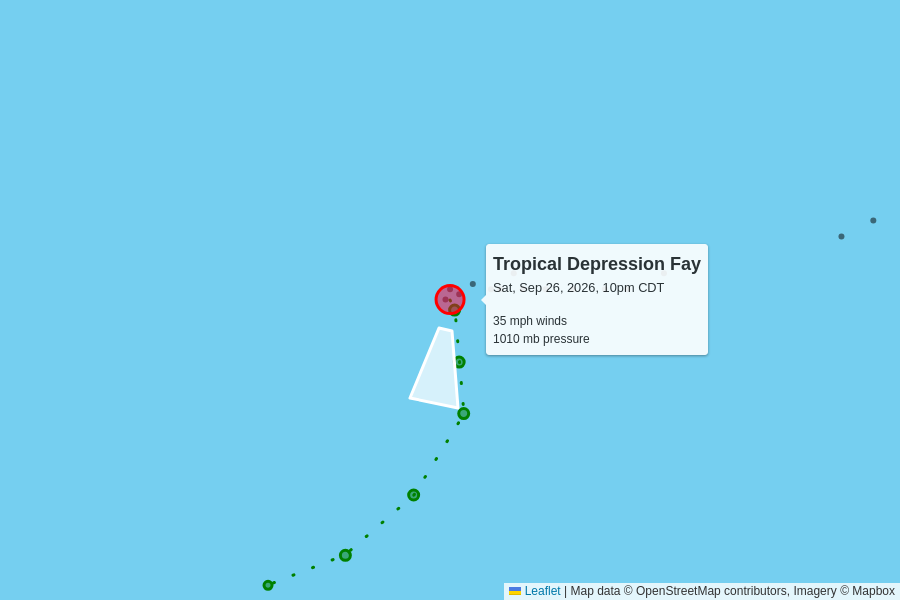
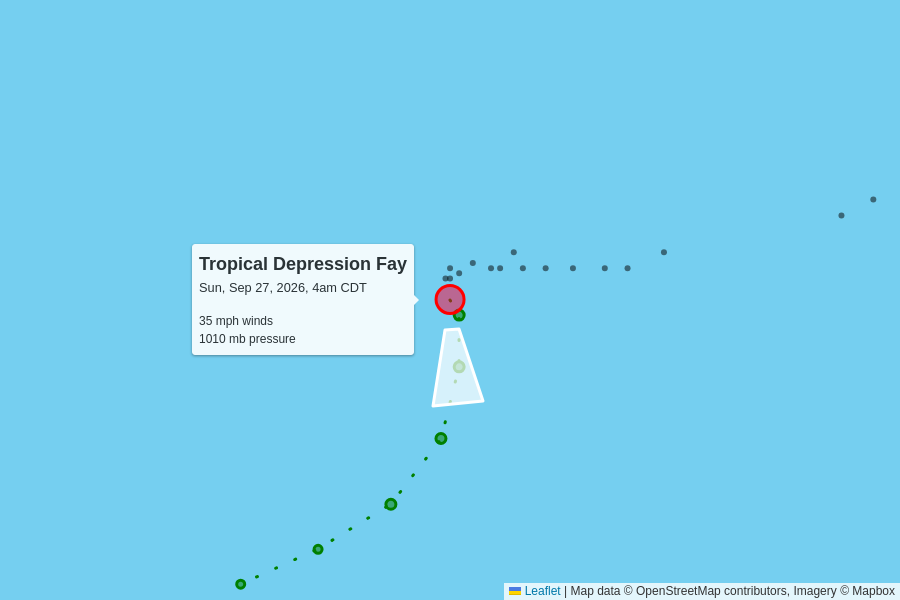
automatic update

diff --git a/docs/2026.html b/docs/2026.html
@@ -45,13 +45,13 @@
       <grid-container>
           <grid-row>
             <script type="text/json" id="storm_data_AL062026">
-              {"pressure":[{"timestamp":"2026-09-19T15:00:00.000Z","value":1009},{"timestamp":"2026-09-19T21:00:00.000Z","value":1007},{"timestamp":"2026-09-20T03:00:00.000Z","value":1007},{"timestamp":"2026-09-20T09:00:00.000Z","value":1004},{"timestamp":"2026-09-20T15:00:00.000Z","value":1004},{"timestamp":"2026-09-20T21:00:00.000Z","value":999},{"timestamp":"2026-09-21T03:00:00.000Z","value":995},{"timestamp":"2026-09-21T09:00:00.000Z","value":997},{"timestamp":"2026-09-21T15:00:00.000Z","value":1000},{"timestamp":"2026-09-21T21:00:00.000Z","value":1004},{"timestamp":"2026-09-22T03:00:00.000Z","value":1008},{"timestamp":"2026-09-22T09:00:00.000Z","value":1009},{"timestamp":"2026-09-22T15:00:00.000Z","value":1010},{"timestamp":"2026-09-22T21:00:00.000Z","value":1011},{"timestamp":"2026-09-23T21:00:00.000Z","value":1011},{"timestamp":"2026-09-24T03:00:00.000Z","value":1010},{"timestamp":"2026-09-24T09:00:00.000Z","value":1010},{"timestamp":"2026-09-24T15:00:00.000Z","value":1005},{"timestamp":"2026-09-24T21:00:00.000Z","value":1005},{"timestamp":"2026-09-25T03:00:00.000Z","value":1005},{"timestamp":"2026-09-25T09:00:00.000Z","value":1004},{"timestamp":"2026-09-25T15:00:00.000Z","value":1002},{"timestamp":"2026-09-25T21:00:00.000Z","value":1004},{"timestamp":"2026-09-26T03:00:00.000Z","value":1006},{"timestamp":"2026-09-26T09:00:00.000Z","value":1009},{"timestamp":"2026-09-26T15:00:00.000Z","value":1009},{"timestamp":"2026-09-26T21:00:00.000Z","value":1009},{"timestamp":"2026-09-27T03:00:00.000Z","value":1010}],"wind":[{"timestamp":"2026-09-19T15:00:00.000Z","value":35},{"timestamp":"2026-09-19T21:00:00.000Z","value":35},{"timestamp":"2026-09-20T03:00:00.000Z","value":35},{"timestamp":"2026-09-20T09:00:00.000Z","value":45},{"timestamp":"2026-09-20T15:00:00.000Z","value":60},{"timestamp":"2026-09-20T21:00:00.000Z","value":65},{"timestamp":"2026-09-21T03:00:00.000Z","value":70},{"timestamp":"2026-09-21T09:00:00.000Z","value":65},{"timestamp":"2026-09-21T15:00:00.000Z","value":50},{"timestamp":"2026-09-21T21:00:00.000Z","value":45},{"timestamp":"2026-09-22T03:00:00.000Z","value":40},{"timestamp":"2026-09-22T09:00:00.000Z","value":40},{"timestamp":"2026-09-22T15:00:00.000Z","value":35},{"timestamp":"2026-09-22T21:00:00.000Z","value":35},{"timestamp":"2026-09-23T21:00:00.000Z","value":35},{"timestamp":"2026-09-24T03:00:00.000Z","value":40},{"timestamp":"2026-09-24T09:00:00.000Z","value":40},{"timestamp":"2026-09-24T15:00:00.000Z","value":50},{"timestamp":"2026-09-24T21:00:00.000Z","value":50},{"timestamp":"2026-09-25T03:00:00.000Z","value":50},{"timestamp":"2026-09-25T09:00:00.000Z","value":50},{"timestamp":"2026-09-25T15:00:00.000Z","value":60},{"timestamp":"2026-09-25T21:00:00.000Z","value":50},{"timestamp":"2026-09-26T03:00:00.000Z","value":40},{"timestamp":"2026-09-26T09:00:00.000Z","value":35},{"timestamp":"2026-09-26T15:00:00.000Z","value":35},{"timestamp":"2026-09-26T21:00:00.000Z","value":35},{"timestamp":"2026-09-27T03:00:00.000Z","value":35}]}
+              {"pressure":[{"timestamp":"2026-09-19T15:00:00.000Z","value":1009},{"timestamp":"2026-09-19T21:00:00.000Z","value":1007},{"timestamp":"2026-09-20T03:00:00.000Z","value":1007},{"timestamp":"2026-09-20T09:00:00.000Z","value":1004},{"timestamp":"2026-09-20T15:00:00.000Z","value":1004},{"timestamp":"2026-09-20T21:00:00.000Z","value":999},{"timestamp":"2026-09-21T03:00:00.000Z","value":995},{"timestamp":"2026-09-21T09:00:00.000Z","value":997},{"timestamp":"2026-09-21T15:00:00.000Z","value":1000},{"timestamp":"2026-09-21T21:00:00.000Z","value":1004},{"timestamp":"2026-09-22T03:00:00.000Z","value":1008},{"timestamp":"2026-09-22T09:00:00.000Z","value":1009},{"timestamp":"2026-09-22T15:00:00.000Z","value":1010},{"timestamp":"2026-09-22T21:00:00.000Z","value":1011},{"timestamp":"2026-09-23T21:00:00.000Z","value":1011},{"timestamp":"2026-09-24T03:00:00.000Z","value":1010},{"timestamp":"2026-09-24T09:00:00.000Z","value":1010},{"timestamp":"2026-09-24T15:00:00.000Z","value":1005},{"timestamp":"2026-09-24T21:00:00.000Z","value":1005},{"timestamp":"2026-09-25T03:00:00.000Z","value":1005},{"timestamp":"2026-09-25T09:00:00.000Z","value":1004},{"timestamp":"2026-09-25T15:00:00.000Z","value":1002},{"timestamp":"2026-09-25T21:00:00.000Z","value":1004},{"timestamp":"2026-09-26T03:00:00.000Z","value":1006},{"timestamp":"2026-09-26T09:00:00.000Z","value":1009},{"timestamp":"2026-09-26T15:00:00.000Z","value":1009},{"timestamp":"2026-09-26T21:00:00.000Z","value":1009},{"timestamp":"2026-09-27T03:00:00.000Z","value":1010},{"timestamp":"2026-09-27T09:00:00.000Z","value":1010}],"wind":[{"timestamp":"2026-09-19T15:00:00.000Z","value":35},{"timestamp":"2026-09-19T21:00:00.000Z","value":35},{"timestamp":"2026-09-20T03:00:00.000Z","value":35},{"timestamp":"2026-09-20T09:00:00.000Z","value":45},{"timestamp":"2026-09-20T15:00:00.000Z","value":60},{"timestamp":"2026-09-20T21:00:00.000Z","value":65},{"timestamp":"2026-09-21T03:00:00.000Z","value":70},{"timestamp":"2026-09-21T09:00:00.000Z","value":65},{"timestamp":"2026-09-21T15:00:00.000Z","value":50},{"timestamp":"2026-09-21T21:00:00.000Z","value":45},{"timestamp":"2026-09-22T03:00:00.000Z","value":40},{"timestamp":"2026-09-22T09:00:00.000Z","value":40},{"timestamp":"2026-09-22T15:00:00.000Z","value":35},{"timestamp":"2026-09-22T21:00:00.000Z","value":35},{"timestamp":"2026-09-23T21:00:00.000Z","value":35},{"timestamp":"2026-09-24T03:00:00.000Z","value":40},{"timestamp":"2026-09-24T09:00:00.000Z","value":40},{"timestamp":"2026-09-24T15:00:00.000Z","value":50},{"timestamp":"2026-09-24T21:00:00.000Z","value":50},{"timestamp":"2026-09-25T03:00:00.000Z","value":50},{"timestamp":"2026-09-25T09:00:00.000Z","value":50},{"timestamp":"2026-09-25T15:00:00.000Z","value":60},{"timestamp":"2026-09-25T21:00:00.000Z","value":50},{"timestamp":"2026-09-26T03:00:00.000Z","value":40},{"timestamp":"2026-09-26T09:00:00.000Z","value":35},{"timestamp":"2026-09-26T15:00:00.000Z","value":35},{"timestamp":"2026-09-26T21:00:00.000Z","value":35},{"timestamp":"2026-09-27T03:00:00.000Z","value":35},{"timestamp":"2026-09-27T09:00:00.000Z","value":35}]}
             </script>              <grid-container class="storm">
                 <grid-row onClick="toggle('storm_AL062026')">
                   <h2>
                     Tropical Depression Fay
                     <div class="updated">
-                      last updated <time datetime="2026-09-27T03:00:00.000Z">2026-09-27T03:00:00.000Z</time>
+                      last updated <time datetime="2026-09-27T09:00:00.000Z">2026-09-27T09:00:00.000Z</time>
                     </div>
                   </h2>
                 </grid-row>
@@ -74,12 +74,12 @@
                         <td>
                           1010 mb
                           <br>
-                          +1 mb since last update
+                          0 mb since last update
                         </td>
                         <td>
-                          2 mph to the south
+                          3 mph to the south
                           <br>
-                          <span style="display: inline-block; font-size: 1.5em; transform: rotate(190deg);">↑</span>
+                          <span style="display: inline-block; font-size: 1.5em; transform: rotate(175deg);">↑</span>
                         </td>
                         <td>
                           <a href="https://raw.githubusercontent.com/mgwalker/atlantic-hurricanes/main/data/csv/AL062026.csv">AL062026.csv</a>

diff --git a/docs/index.html b/docs/index.html
@@ -45,13 +45,13 @@
       <grid-container>
           <grid-row>
             <script type="text/json" id="storm_data_AL062026">
-              {"pressure":[{"timestamp":"2026-09-19T15:00:00.000Z","value":1009},{"timestamp":"2026-09-19T21:00:00.000Z","value":1007},{"timestamp":"2026-09-20T03:00:00.000Z","value":1007},{"timestamp":"2026-09-20T09:00:00.000Z","value":1004},{"timestamp":"2026-09-20T15:00:00.000Z","value":1004},{"timestamp":"2026-09-20T21:00:00.000Z","value":999},{"timestamp":"2026-09-21T03:00:00.000Z","value":995},{"timestamp":"2026-09-21T09:00:00.000Z","value":997},{"timestamp":"2026-09-21T15:00:00.000Z","value":1000},{"timestamp":"2026-09-21T21:00:00.000Z","value":1004},{"timestamp":"2026-09-22T03:00:00.000Z","value":1008},{"timestamp":"2026-09-22T09:00:00.000Z","value":1009},{"timestamp":"2026-09-22T15:00:00.000Z","value":1010},{"timestamp":"2026-09-22T21:00:00.000Z","value":1011},{"timestamp":"2026-09-23T21:00:00.000Z","value":1011},{"timestamp":"2026-09-24T03:00:00.000Z","value":1010},{"timestamp":"2026-09-24T09:00:00.000Z","value":1010},{"timestamp":"2026-09-24T15:00:00.000Z","value":1005},{"timestamp":"2026-09-24T21:00:00.000Z","value":1005},{"timestamp":"2026-09-25T03:00:00.000Z","value":1005},{"timestamp":"2026-09-25T09:00:00.000Z","value":1004},{"timestamp":"2026-09-25T15:00:00.000Z","value":1002},{"timestamp":"2026-09-25T21:00:00.000Z","value":1004},{"timestamp":"2026-09-26T03:00:00.000Z","value":1006},{"timestamp":"2026-09-26T09:00:00.000Z","value":1009},{"timestamp":"2026-09-26T15:00:00.000Z","value":1009},{"timestamp":"2026-09-26T21:00:00.000Z","value":1009},{"timestamp":"2026-09-27T03:00:00.000Z","value":1010}],"wind":[{"timestamp":"2026-09-19T15:00:00.000Z","value":35},{"timestamp":"2026-09-19T21:00:00.000Z","value":35},{"timestamp":"2026-09-20T03:00:00.000Z","value":35},{"timestamp":"2026-09-20T09:00:00.000Z","value":45},{"timestamp":"2026-09-20T15:00:00.000Z","value":60},{"timestamp":"2026-09-20T21:00:00.000Z","value":65},{"timestamp":"2026-09-21T03:00:00.000Z","value":70},{"timestamp":"2026-09-21T09:00:00.000Z","value":65},{"timestamp":"2026-09-21T15:00:00.000Z","value":50},{"timestamp":"2026-09-21T21:00:00.000Z","value":45},{"timestamp":"2026-09-22T03:00:00.000Z","value":40},{"timestamp":"2026-09-22T09:00:00.000Z","value":40},{"timestamp":"2026-09-22T15:00:00.000Z","value":35},{"timestamp":"2026-09-22T21:00:00.000Z","value":35},{"timestamp":"2026-09-23T21:00:00.000Z","value":35},{"timestamp":"2026-09-24T03:00:00.000Z","value":40},{"timestamp":"2026-09-24T09:00:00.000Z","value":40},{"timestamp":"2026-09-24T15:00:00.000Z","value":50},{"timestamp":"2026-09-24T21:00:00.000Z","value":50},{"timestamp":"2026-09-25T03:00:00.000Z","value":50},{"timestamp":"2026-09-25T09:00:00.000Z","value":50},{"timestamp":"2026-09-25T15:00:00.000Z","value":60},{"timestamp":"2026-09-25T21:00:00.000Z","value":50},{"timestamp":"2026-09-26T03:00:00.000Z","value":40},{"timestamp":"2026-09-26T09:00:00.000Z","value":35},{"timestamp":"2026-09-26T15:00:00.000Z","value":35},{"timestamp":"2026-09-26T21:00:00.000Z","value":35},{"timestamp":"2026-09-27T03:00:00.000Z","value":35}]}
+              {"pressure":[{"timestamp":"2026-09-19T15:00:00.000Z","value":1009},{"timestamp":"2026-09-19T21:00:00.000Z","value":1007},{"timestamp":"2026-09-20T03:00:00.000Z","value":1007},{"timestamp":"2026-09-20T09:00:00.000Z","value":1004},{"timestamp":"2026-09-20T15:00:00.000Z","value":1004},{"timestamp":"2026-09-20T21:00:00.000Z","value":999},{"timestamp":"2026-09-21T03:00:00.000Z","value":995},{"timestamp":"2026-09-21T09:00:00.000Z","value":997},{"timestamp":"2026-09-21T15:00:00.000Z","value":1000},{"timestamp":"2026-09-21T21:00:00.000Z","value":1004},{"timestamp":"2026-09-22T03:00:00.000Z","value":1008},{"timestamp":"2026-09-22T09:00:00.000Z","value":1009},{"timestamp":"2026-09-22T15:00:00.000Z","value":1010},{"timestamp":"2026-09-22T21:00:00.000Z","value":1011},{"timestamp":"2026-09-23T21:00:00.000Z","value":1011},{"timestamp":"2026-09-24T03:00:00.000Z","value":1010},{"timestamp":"2026-09-24T09:00:00.000Z","value":1010},{"timestamp":"2026-09-24T15:00:00.000Z","value":1005},{"timestamp":"2026-09-24T21:00:00.000Z","value":1005},{"timestamp":"2026-09-25T03:00:00.000Z","value":1005},{"timestamp":"2026-09-25T09:00:00.000Z","value":1004},{"timestamp":"2026-09-25T15:00:00.000Z","value":1002},{"timestamp":"2026-09-25T21:00:00.000Z","value":1004},{"timestamp":"2026-09-26T03:00:00.000Z","value":1006},{"timestamp":"2026-09-26T09:00:00.000Z","value":1009},{"timestamp":"2026-09-26T15:00:00.000Z","value":1009},{"timestamp":"2026-09-26T21:00:00.000Z","value":1009},{"timestamp":"2026-09-27T03:00:00.000Z","value":1010},{"timestamp":"2026-09-27T09:00:00.000Z","value":1010}],"wind":[{"timestamp":"2026-09-19T15:00:00.000Z","value":35},{"timestamp":"2026-09-19T21:00:00.000Z","value":35},{"timestamp":"2026-09-20T03:00:00.000Z","value":35},{"timestamp":"2026-09-20T09:00:00.000Z","value":45},{"timestamp":"2026-09-20T15:00:00.000Z","value":60},{"timestamp":"2026-09-20T21:00:00.000Z","value":65},{"timestamp":"2026-09-21T03:00:00.000Z","value":70},{"timestamp":"2026-09-21T09:00:00.000Z","value":65},{"timestamp":"2026-09-21T15:00:00.000Z","value":50},{"timestamp":"2026-09-21T21:00:00.000Z","value":45},{"timestamp":"2026-09-22T03:00:00.000Z","value":40},{"timestamp":"2026-09-22T09:00:00.000Z","value":40},{"timestamp":"2026-09-22T15:00:00.000Z","value":35},{"timestamp":"2026-09-22T21:00:00.000Z","value":35},{"timestamp":"2026-09-23T21:00:00.000Z","value":35},{"timestamp":"2026-09-24T03:00:00.000Z","value":40},{"timestamp":"2026-09-24T09:00:00.000Z","value":40},{"timestamp":"2026-09-24T15:00:00.000Z","value":50},{"timestamp":"2026-09-24T21:00:00.000Z","value":50},{"timestamp":"2026-09-25T03:00:00.000Z","value":50},{"timestamp":"2026-09-25T09:00:00.000Z","value":50},{"timestamp":"2026-09-25T15:00:00.000Z","value":60},{"timestamp":"2026-09-25T21:00:00.000Z","value":50},{"timestamp":"2026-09-26T03:00:00.000Z","value":40},{"timestamp":"2026-09-26T09:00:00.000Z","value":35},{"timestamp":"2026-09-26T15:00:00.000Z","value":35},{"timestamp":"2026-09-26T21:00:00.000Z","value":35},{"timestamp":"2026-09-27T03:00:00.000Z","value":35},{"timestamp":"2026-09-27T09:00:00.000Z","value":35}]}
             </script>              <grid-container class="storm">
                 <grid-row onClick="toggle('storm_AL062026')">
                   <h2>
                     Tropical Depression Fay
                     <div class="updated">
-                      last updated <time datetime="2026-09-27T03:00:00.000Z">2026-09-27T03:00:00.000Z</time>
+                      last updated <time datetime="2026-09-27T09:00:00.000Z">2026-09-27T09:00:00.000Z</time>
                     </div>
                   </h2>
                 </grid-row>
@@ -74,12 +74,12 @@
                         <td>
                           1010 mb
                           <br>
-                          +1 mb since last update
+                          0 mb since last update
                         </td>
                         <td>
-                          2 mph to the south
+                          3 mph to the south
                           <br>
-                          <span style="display: inline-block; font-size: 1.5em; transform: rotate(190deg);">↑</span>
+                          <span style="display: inline-block; font-size: 1.5em; transform: rotate(175deg);">↑</span>
                         </td>
                         <td>
                           <a href="https://raw.githubusercontent.com/mgwalker/atlantic-hurricanes/main/data/csv/AL062026.csv">AL062026.csv</a>
